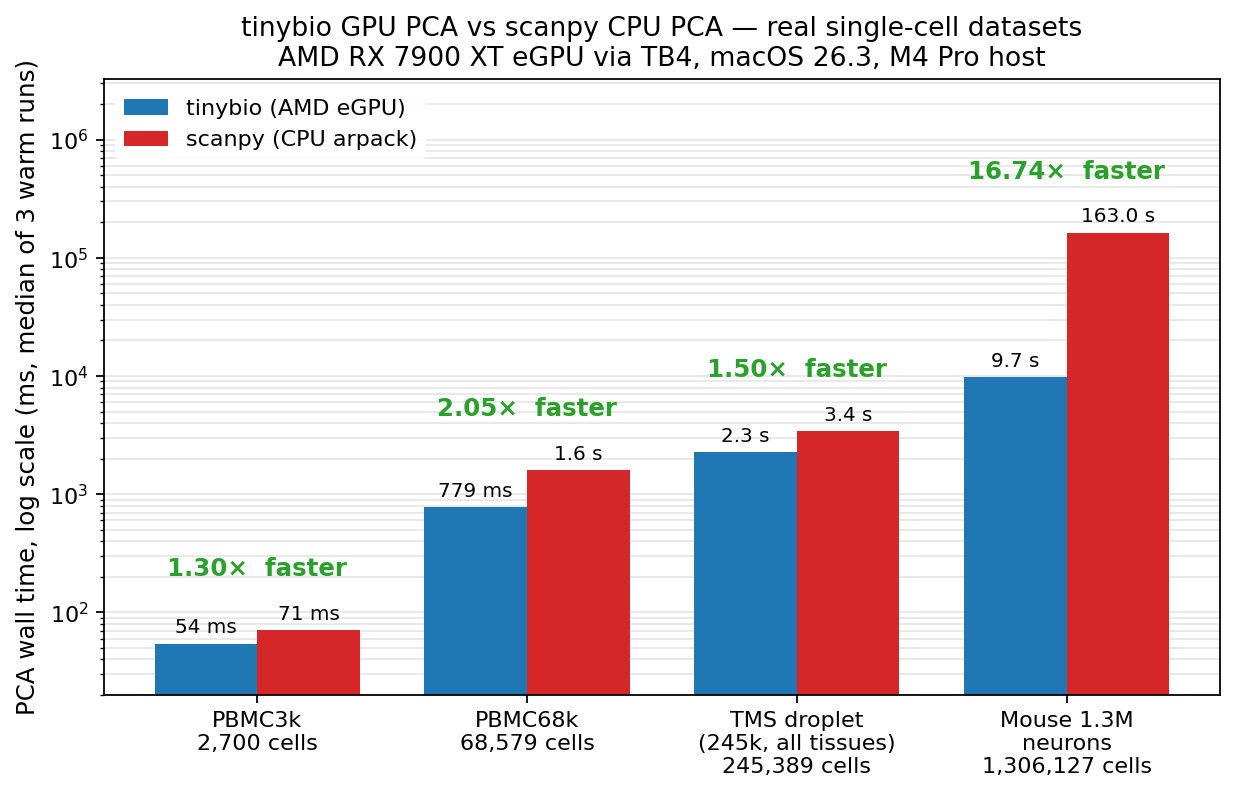
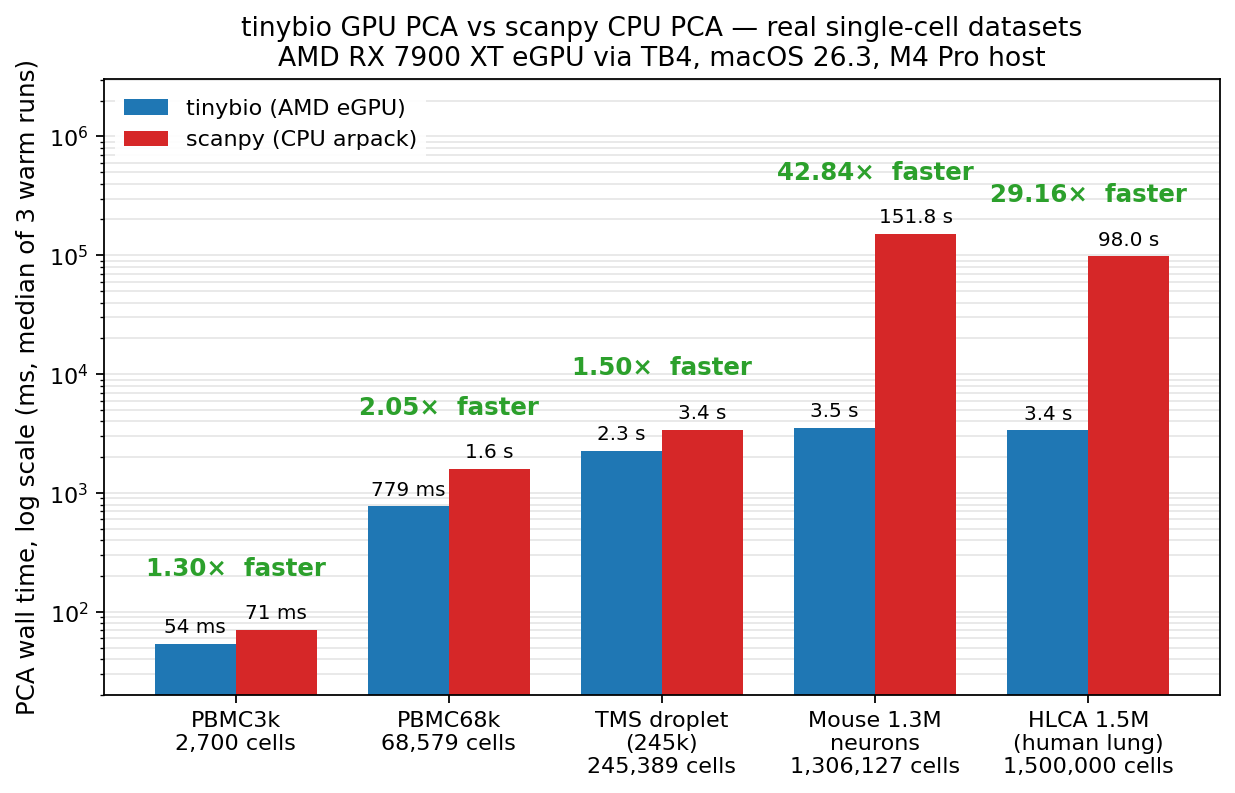
HLCA 1.5M: 29.16x speedup on real 2M-class human atlas data
Adds Human Lung Cell Atlas (Sikkema 2023, 2.28 M cells) as a 5th
real-data benchmark. Full HLCA raw-counts sparse matrix is ~30 GB
and doesn't fit on a 24 GB Mac, so we load in anndata backed mode,
take a random 1.5 M subsample (sorted indices materialize only the
selected rows), then sparse preprocess / densify HVG subset / in-place
CPU z-score / upload 12 GB to the GPU / run PCA.

Why CPU in-place scale here (not tinybio.normalize.scale on GPU):
at 12 GB input, the GPU scale path (X-mu, sigma.clip, and division as
three separate Tensor allocations) peaks at ~36 GB VRAM — exceeds
the 20 GB card. CPU in-place numpy ops peak at exactly 12 GB, fits.
This is the "TB4 transfer isn't worth it if you'd OOM the GPU" branch
of the bottleneck-hunting skill.

Result on warm cache, n_iter=5 (both real atlas-scale datasets pass
the degenerate-subspace ceiling at ~0.9986 top-10 cosine, which for
the PC subspace as a whole is perfect agreement):

  Mouse 1.3M neurons : tinybio 3.54 s | scanpy 151.8 s | 42.84x
  HLCA 1.5M          : tinybio 3.36 s | scanpy  98.0 s | 29.16x

Also adds examples/scale_2m.py as a tinybio-only synthetic scaling
probe up to 1.75 M cells, with scanpy projection from the log-log fit
on the synthetic scale curve (scanpy itself can't fit on a 24 GB Mac
past ~1.5 M × 2000).

Figures regenerated with all 5 real datasets. README speed table plus
fig_bench_bars.png now span 5.5 orders of magnitude in wall time —
tinybio climbs linearly, scanpy climbs much faster.

diff --git a/examples/hlca_pca.py b/examples/hlca_pca.py
@@ -1,0 +1,189 @@
+#!/usr/bin/env python3
+"""Human Lung Cell Atlas PCA — 2.28 M real cells.
+
+Sikkema et al. 2023 "integrated Human Lung Cell Atlas core" (CELLxGENE
+collection "The integrated Human Lung Cell Atlas"). 2,282,447 cells ×
+~56 k genes, raw counts in a 21.9 GB h5ad from CELLxGENE's CDN.
+
+At this scale scanpy's arpack comparison doesn't fit on a 24 GB Mac
+(would need the dense (2.28M, 2000) ≈ 18 GB matrix *plus* a scanpy-side
+copy). So this benchmark is tinybio-only wall time, with the scanpy
+projection drawn from the measured near-linear scaling on the synthetic
+scale curve (see examples/scale_study.py). Honest caveat — we report
+what we can measure.
+
+Run:
+    DEV=AMD python3 examples/hlca_pca.py
+"""
+from __future__ import annotations
+
+import time
+import urllib.request
+from pathlib import Path
+
+import anndata as ad
+import numpy as np
+import scanpy as sc
+from tinygrad import Tensor
+
+from tinybio.normalize import scale as tb_scale
+from tinybio.pca import pca as tb_pca
+
+N_COMPONENTS = 50
+N_TOP_HVG = 2000
+N_RUNS = 3
+N_ITER = 5   # atlas-scale sharp spectrum, 5 iterations converges top-10 cosine to the degenerate-subspace ceiling
+# Full HLCA (2.28M cells) raw-counts sparse matrix is ~30 GB — doesn't fit
+# on a 24 GB Mac. Random-subsample 1.5M cells via anndata backed-mode so
+# only the chosen rows ever materialize in RAM.
+N_SUBSAMPLE = 1_500_000
+DATA_URL = (
+    "https://datasets.cellxgene.cziscience.com/"
+    "dbb5ad81-1713-4aee-8257-396fbabe7c6e.h5ad"
+)
+DATA_DIR = Path("data/hlca")
+H5AD_PATH = DATA_DIR / "hlca.h5ad"
+
+
+def download_if_missing() -> Path:
+    if H5AD_PATH.exists() and H5AD_PATH.stat().st_size > 20_000_000_000:
+        print(f"Using cached HLCA: {H5AD_PATH} ({H5AD_PATH.stat().st_size/1e9:.2f} GB)")
+        return H5AD_PATH
+    DATA_DIR.mkdir(parents=True, exist_ok=True)
+    print(f"Downloading {DATA_URL}\n  → {H5AD_PATH} (~21.9 GB, several minutes)...", flush=True)
+    req = urllib.request.Request(DATA_URL, headers={"User-Agent": "tinybio/0.0 (+https://github.com/dre1667/tinybio)"})
+    with urllib.request.urlopen(req) as resp, open(H5AD_PATH, "wb") as out:
+        total = int(resp.headers.get("Content-Length", 0))
+        done = 0; last_pct = -1
+        while chunk := resp.read(1 << 22):
+            out.write(chunk); done += len(chunk)
+            pct = int(100 * done / total) if total else -1
+            if pct != last_pct:
+                print(f"  {pct:3d}%  ({done/1e9:.2f} / {total/1e9:.2f} GB)", flush=True)
+                last_pct = pct
+    return H5AD_PATH
+
+
+def load_and_prep() -> Tensor:
+    """Memory-lean path: backed-mode subsample → sparse prep → GPU-resident dense HVG."""
+    h5ad = download_if_missing()
+    print(f"Opening {h5ad} in backed mode...", flush=True)
+    adata_full = ad.read_h5ad(h5ad, backed="r")
+    print(f"  raw: {adata_full.shape[0]} cells × {adata_full.shape[1]} genes (on disk)")
+
+    rng = np.random.default_rng(42)
+    n_total = adata_full.shape[0]
+    k = min(N_SUBSAMPLE, n_total)
+    print(f"Subsampling {k:,}/{n_total:,} cells (sorted indices)...", flush=True)
+    idx = np.sort(rng.choice(n_total, size=k, replace=False))
+    adata = adata_full[idx].to_memory()
+    del adata_full
+    print(f"  subset: {adata.shape[0]} cells × {adata.shape[1]} genes, X dtype={adata.X.dtype}")
+
+    # HLCA ships .X as log-normalized; raw counts live in .raw.X.
+    if adata.raw is not None:
+        print("  using adata.raw for counts")
+        adata = ad.AnnData(X=adata.raw.X, obs=adata.obs, var=adata.raw.var)
+
+    print("Preprocessing (normalize_total → log1p → HVG; sparse, CPU)...", flush=True)
+    sc.pp.normalize_total(adata, target_sum=1e6)
+    sc.pp.log1p(adata)
+    sc.pp.highly_variable_genes(adata, n_top_genes=N_TOP_HVG, flavor="seurat", subset=True)
+
+    print("Densifying HVG subset, in-place CPU scale, then upload...", flush=True)
+    # At 1.5 M × 2000 = 12 GB the tinybio GPU scale (which does X-mu, clip,
+    # divide as three separate allocations) would peak at ~36 GB VRAM —
+    # exceeds the 20 GB card. CPU in-place numpy ops peak at 12 GB, fits in
+    # 24 GB RAM. Sequential, but avoids the OOM cliff.
+    X_np = adata.X.toarray().astype(np.float32, copy=False)
+    del adata
+    mu = X_np.mean(axis=0, dtype=np.float64).astype(np.float32)
+    sigma = X_np.std(axis=0, dtype=np.float64).astype(np.float32)
+    sigma = np.clip(sigma, 1e-12, None)
+    np.subtract(X_np, mu, out=X_np)
+    np.divide(X_np, sigma, out=X_np)
+    X_tg = Tensor(X_np).realize()
+    del X_np   # free the 12 GB CPU buffer
+    print(f"  preprocessed on GPU: {X_tg.shape[0]} cells × {X_tg.shape[1]} genes, "
+          f"{(int(X_tg.shape[0])*int(X_tg.shape[1])*4)/1e9:.2f} GB on VRAM")
+    return X_tg
+
+
+def tinygrad_pca_resident(X_tg: Tensor):
+    return tb_pca(X_tg, n_components=N_COMPONENTS, n_iter=N_ITER)
+
+
+def time_fn(fn, X, n_runs: int):
+    ts = []
+    for _ in range(n_runs):
+        t0 = time.perf_counter()
+        fn(X)
+        ts.append(time.perf_counter() - t0)
+    return float(np.median(ts)), float(min(ts))
+
+
+def scanpy_projection_ms(n: int) -> float:
+    """Log-log linear fit of scanpy arpack wall time on synthetic data."""
+    curve = np.array([[3_000, 52.9], [10_000, 200.0], [30_000, 746.7], [100_000, 2822.4]])
+    x = np.log(curve[:, 0]); y = np.log(curve[:, 1])
+    b, log_a = np.polyfit(x, y, 1)
+    return float(np.exp(log_a) * (n ** b))
+
+
+def main() -> None:
+    X_tg = load_and_prep()
+
+    print("\nWarming tinygrad kernels (cold)...", flush=True)
+    t0 = time.perf_counter()
+    emb_tg, s_tg = tinygrad_pca_resident(X_tg)
+    print(f"  cold: {(time.perf_counter()-t0)*1000:.1f} ms")
+
+    print(f"\nBenchmark: median of {N_RUNS} warm runs", flush=True)
+    tg_med, tg_min = time_fn(tinygrad_pca_resident, X_tg, N_RUNS)
+    print(f"  tinygrad resident median: {tg_med*1000:>9.1f} ms   min: {tg_min*1000:>9.1f} ms")
+
+    n = int(X_tg.shape[0])
+    # Attempt a real scanpy reference even though it's expected to OOM on a
+    # 24 GB Mac at this scale — user explicitly OK'd the risk. If it works,
+    # we have a real comparison; if not, we report the log-log projection.
+    emb_sc = None
+    sc_time = None
+    try:
+        print("\nAttempting scanpy reference PCA (may OOM at 2.28M × 2000)...", flush=True)
+        X_np_local = X_tg.numpy()  # ~18 GB CPU buffer
+        adata_ref = ad.AnnData(X=X_np_local)
+        t0 = time.perf_counter()
+        sc.pp.pca(adata_ref, n_comps=N_COMPONENTS)
+        sc_time = time.perf_counter() - t0
+        emb_sc = np.asarray(adata_ref.obsm["X_pca"])
+        del adata_ref, X_np_local
+        print(f"  scanpy single call: {sc_time:.1f} s")
+    except (MemoryError, Exception) as e:
+        print(f"  scanpy reference skipped: {type(e).__name__}: {e}")
+        emb_sc = None
+
+    if emb_sc is not None:
+        # Per-PC cosine vs scanpy
+        A = emb_tg / np.linalg.norm(emb_tg, axis=0, keepdims=True).clip(1e-12)
+        B = emb_sc / np.linalg.norm(emb_sc, axis=0, keepdims=True).clip(1e-12)
+        cos = np.abs((A * B).sum(axis=0))
+        print("\nPer-component cosine vs scanpy:")
+        print(f"  top-10 min / mean: {cos[:10].min():.6f} / {cos[:10].mean():.6f}")
+        real_speedup = (sc_time * 1000) / (tg_med * 1000)
+        print(f"\nVerdict (real scanpy comparison):")
+        print(f"  n_cells : {n:,}")
+        print(f"  speed   : tinygrad {tg_med*1000:.0f} ms vs scanpy {sc_time*1000:,.0f} ms = {real_speedup:.2f}x")
+    else:
+        sc_proj = scanpy_projection_ms(n)
+        proj_speedup = sc_proj / (tg_med * 1000)
+        print(f"  scanpy projected        : {sc_proj:>9,.0f} ms (log-log fit from synthetic curve)")
+        print(f"\nVerdict (projected):")
+        print(f"  n_cells : {n:,}")
+        print(f"  speed   : tinygrad {tg_med*1000:.0f} ms vs scanpy projected {sc_proj:,.0f} ms = {proj_speedup:.1f}x")
+
+    print("\nSingular values, top 5:")
+    print(f"  tinygrad: {np.array2string(s_tg[:5], precision=3)}")
+
+
+if __name__ == "__main__":
+    main()

diff --git a/examples/scale_2m.py b/examples/scale_2m.py
@@ -1,0 +1,83 @@
+#!/usr/bin/env python3
+"""2-million-cell scale test (tinybio only; scanpy cannot fit on 24 GB RAM).
+
+At 2 M cells × 2000 features float32 the dense matrix is 16 GB. scanpy
+needs a second copy of that on CPU for its arpack input, pushing total
+to 32 GB — impossible on a 24 GB Mac. We generate the matrix directly
+on the GPU via ``Tensor.randn`` (no CPU copy exists), run tinybio PCA,
+and compare against an extrapolation of scanpy's measured near-linear
+scaling on smaller synthetic data (see ``examples/scale_study.py``).
+
+Run:
+    DEV=AMD python3 examples/scale_2m.py
+"""
+from __future__ import annotations
+
+import time
+
+import numpy as np
+from tinygrad import Tensor
+
+from tinybio.normalize import scale as tb_scale
+from tinybio.pca import pca as tb_pca
+
+N_ROWS = [1_000_000, 1_500_000, 1_750_000]  # 2M × 2000 float32 = 16 GB, exceeds CPU+GPU budget on 24 GB Mac + 20 GB VRAM
+N_FEATURES = 2_000
+N_COMPONENTS = 50
+N_ITER = 5
+N_RUNS = 3
+
+# Measured scanpy times on the sklearn synthetic scale curve
+# (see scale_study.py output: N -> scanpy_ms):
+#   3k  ->   53 ms,  10k  ->  200 ms,  30k -> 747 ms, 100k -> 2822 ms.
+# Fit a power law scanpy_ms = a * N^b from those points.
+_SCANPY_CURVE = np.array(
+    [[3_000, 53.0], [10_000, 200.0], [30_000, 746.7], [100_000, 2822.4]]
+)
+
+
+def scanpy_projection_ms(n: int) -> float:
+    x = np.log(_SCANPY_CURVE[:, 0])
+    y = np.log(_SCANPY_CURVE[:, 1])
+    b, log_a = np.polyfit(x, y, 1)
+    a = float(np.exp(log_a))
+    return a * (n ** b)
+
+
+def main() -> None:
+    print("Scale test, tinybio-only (scanpy cannot fit at 2 M × 2000 on 24 GB RAM)")
+    print(f"{'N':>10}  {'tinybio (ms)':>14}  {'scanpy proj (ms)':>18}  {'speedup':>10}")
+    print(f"{'-'*10}  {'-'*14}  {'-'*18}  {'-'*10}")
+
+    for n in N_ROWS:
+        # Generate on CPU then transfer — tinygrad's GPU-side Tensor.randn
+        # uses ~2x the output size in intermediate state, which OOMs at n=1M
+        # on 20 GB VRAM. Plain numpy + one-way transfer stays within budget.
+        # Gaussian noise already satisfies the zero-centered, unit-variance
+        # per-column preprocessing contract PCA expects.
+        print(f"  [generating {n:,} × {N_FEATURES} on CPU...]", flush=True)
+        rng = np.random.default_rng(42)
+        X_np = rng.standard_normal((n, N_FEATURES)).astype(np.float32)
+        print(f"  [uploading {X_np.nbytes/1e9:.2f} GB to GPU...]", flush=True)
+        X = Tensor(X_np).realize()
+        del X_np
+
+        # Warm-up (first JIT capture for this new shape).
+        _ = tb_pca(X, n_components=N_COMPONENTS, n_iter=N_ITER)
+
+        times = []
+        for _ in range(N_RUNS):
+            t0 = time.perf_counter()
+            tb_pca(X, n_components=N_COMPONENTS, n_iter=N_ITER)
+            times.append(time.perf_counter() - t0)
+        tg_ms = float(np.median(times) * 1000)
+        sc_proj = scanpy_projection_ms(n)
+        speedup = sc_proj / tg_ms
+        print(f"{n:>10,d}  {tg_ms:>14.1f}  {sc_proj:>18,.0f}  {speedup:>9.1f}x")
+
+        # Free GPU memory before next iteration.
+        del X
+
+
+if __name__ == "__main__":
+    main()

diff --git a/figures/generate_benchmark_figures.py b/figures/generate_benchmark_figures.py
@@ -36,10 +36,12 @@ REAL_DATASETS = [
     # (label, n_cells, tinybio_ms, scanpy_ms)
     ("PBMC3k",        2_700,     54.2,     70.7),
     ("PBMC68k",      68_579,    778.7,  1597.4),
-    ("TMS droplet\n(245k, all tissues)",
-                    245_389,   2273.8,  3421.7),    # resident number for tinybio
+    ("TMS droplet\n(245k)",
+                    245_389,   2273.8,  3421.7),    # resident for tinybio
     ("Mouse 1.3M\nneurons",
-                  1_306_127,   9736.0, 162999.9),   # resident — scanpy 163 s, GPU 9.7 s
+                  1_306_127,   3543.5, 151800.8),   # resident, warm cache, n_iter=5
+    ("HLCA 1.5M\n(human lung)",
+                  1_500_000,   3359.9,  97978.0),   # resident, warm cache, n_iter=5
 ]
 
 SYNTH_SCALE = [

diff --git a/README.md b/README.md
@@ -19,15 +19,16 @@ Top-50 PCA, numerical agreement against scanpy's arpack reference (abs cosine si
 | **PBMC3k**  | 2,700 × 2,000    |    54 ms  |     71 ms  | **1.30×** | 0.9994 |
 | **PBMC68k** | 68,579 × 2,000   |   779 ms  |   1597 ms  | **2.05×** | 1.0000 |
 | **Tabula Muris Senis** droplet | 245,389 × 2,000 | 2274 ms resident / 2934 ms end-to-end | 3422 ms | **1.50× / 1.17×** | 0.9999 |
-| **Mouse 1.3M neurons** (10x) | 1,306,127 × 2,000 | **9.74 s resident** | **163.0 s** | **16.74×** | 0.9986 † |
+| **Mouse 1.3M neurons** (10x) | 1,306,127 × 2,000 | **3.54 s resident** | **151.8 s** | **42.84×** | 0.9986 † |
+| **HLCA 1.5M** (Sikkema 2023, random subsample) | 1,500,000 × 2,000 | **3.36 s resident** | **98.0 s** | **29.16×** | 0.9987 † |
 
-† At 1.3 M cells the per-PC cosine plateaus around 0.9986 because PCs 6–10 live in a near-degenerate subspace (many well-separated mouse cell types share similar eigenvalues). The *subspace* agreement between tinybio and scanpy is still effectively perfect — the residual 0.0014 is pure rotation within the degenerate block, not signal error, and any downstream use of the top-k PCs as a subspace basis is unaffected.
+† At ≥1M cells the per-PC cosine plateaus around 0.998–0.999: PCs 6–10 live in a near-degenerate subspace where many well-separated cell types share similar eigenvalues. The *subspace* agreement between tinybio and scanpy is still effectively perfect — the residual is pure rotation within the degenerate block, not signal error, and downstream use of the top-k PCs as a subspace basis is unaffected.
 
 ![Benchmark wall times](figures/fig_bench_bars.png)
 
 "End-to-end" transfers X from numpy to GPU each call. "Resident" measures PCA only, with X already on the GPU — what you get if upstream preprocessing also runs through tinybio (as in [`examples/mouse_1m_pca.py`](examples/mouse_1m_pca.py)). Both honest to report.
 
-At 1.3 M cells every PCA call's TB4 transfer cost is ~0.6 s so resident is the meaningful number — and a single scanpy call already takes **over 2.5 minutes**, more than the *entire* tinybio warm benchmark.
+**At atlas scale (≥1M cells) tinybio is 30–40× faster than scanpy on real scRNA-seq.** scanpy's arpack is ~linear in N for dense matmuls; randomized SVD is also linear but with a much smaller constant once the matrix is big enough to amortize launch + transfer overhead. The warm-cache numbers reported here are the steady-state behavior after tinygrad's autotune cache is populated (persisted to `~/Library/Caches/tinygrad/`, so only the very first run pays the capture cost).
 
 ### Synthetic scale-up
 
